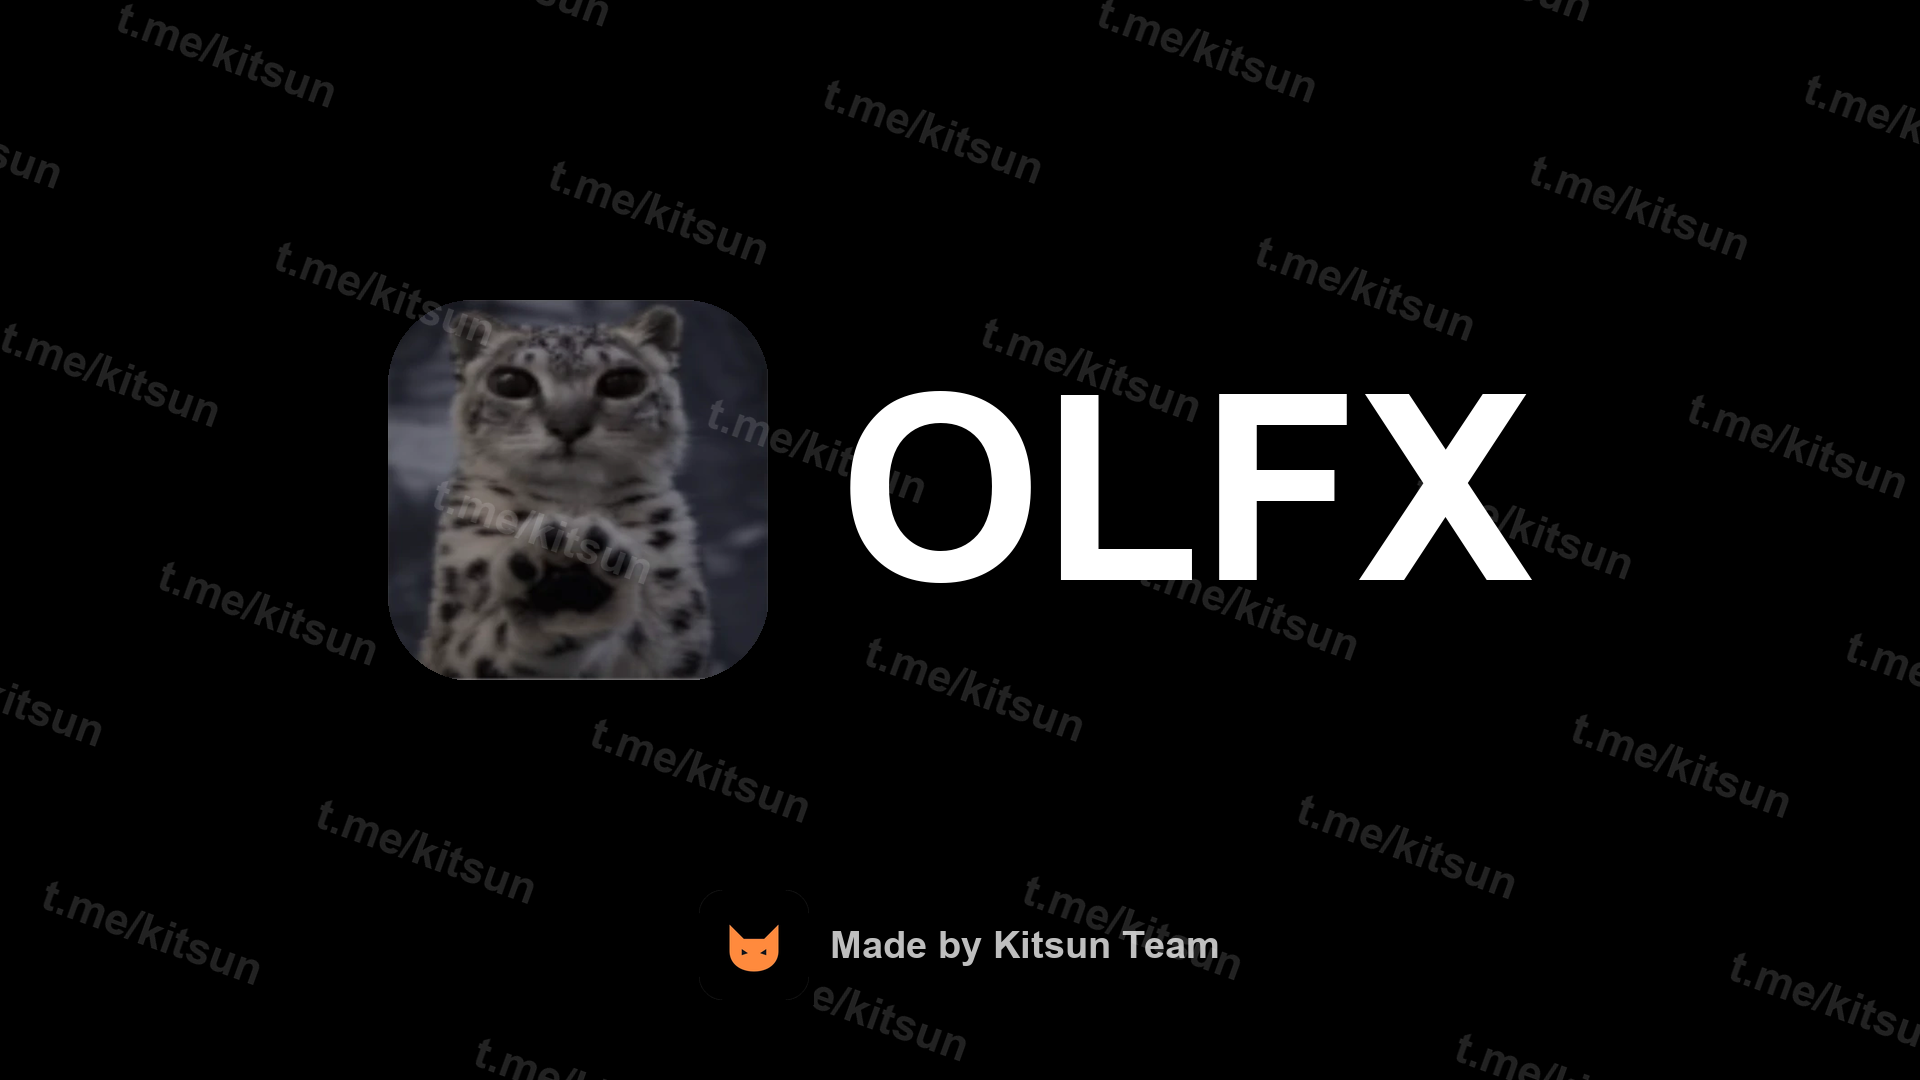
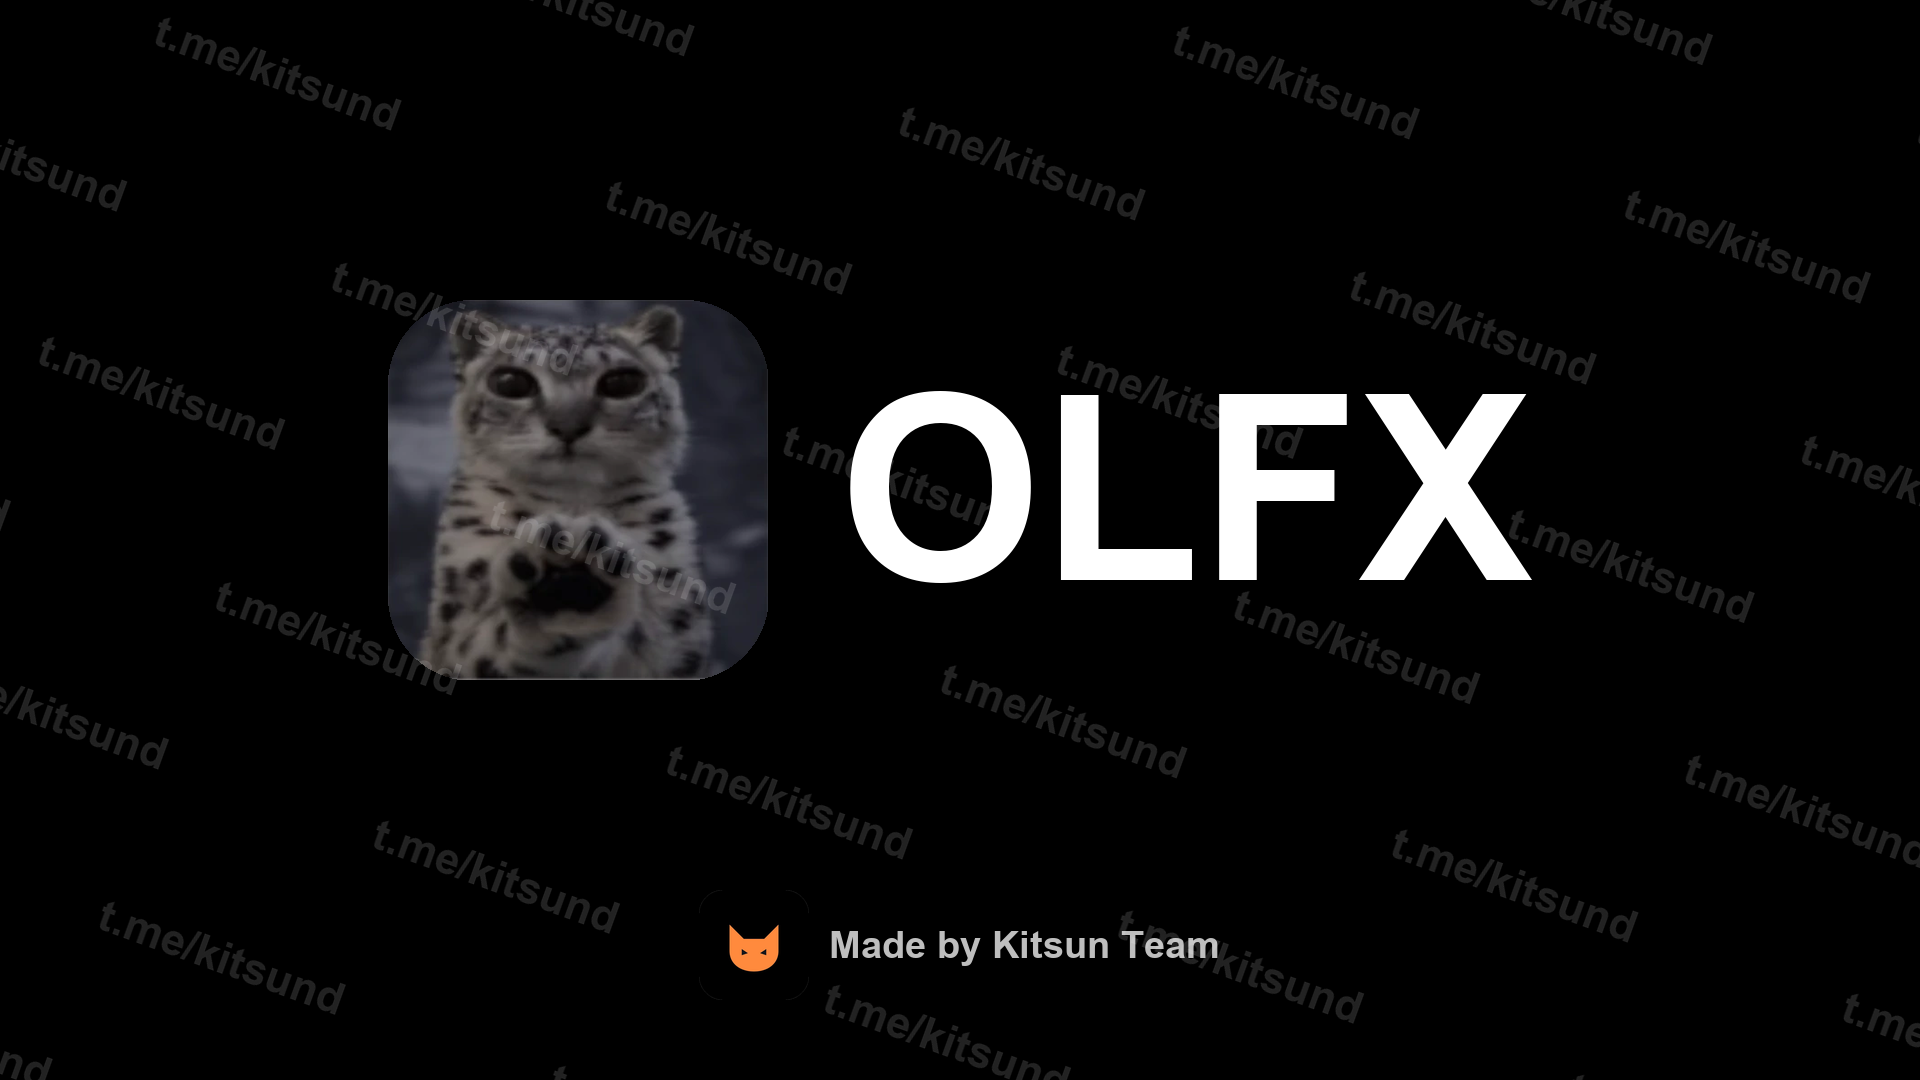
Fix Telegram link

diff --git a/index.html b/index.html
@@ -7,5 +7,5 @@ p{color:#bbb;line-height:1.5}small{color:#777}.wm{position:fixed;inset:0;pointer
 <p>Запускайте VR-игры на телефоне: OpenXR-рантайм, трекинг рук по камере и поддержка Joy-Con как Oculus Touch.</p>
 <a class="btn" href="https://github.com/samrat1games/OLFX/releases/latest/download/OLFX.apk">Скачать APK</a>
 <a class="btn" href="https://github.com/samrat1games/OLFX/releases/latest/download/OLFX.ipa">Скачать IPA</a>
-<p><a href="https://github.com/samrat1games/OLFX" style="color:#ff8a3d">Исходный код</a> · <a href="https://t.me/kitsun" style="color:#ff8a3d">t.me/kitsun</a></p>
+<p><a href="https://github.com/samrat1games/OLFX" style="color:#ff8a3d">Исходный код</a> · <a href="https://t.me/kitsund" style="color:#ff8a3d">t.me/kitsund</a></p>
 <small>Made by Kitsun Team</small></main></body></html>
